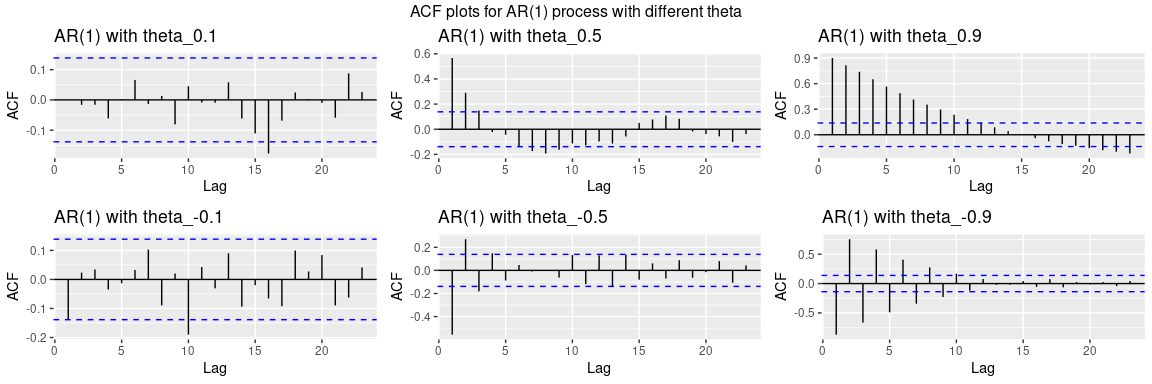
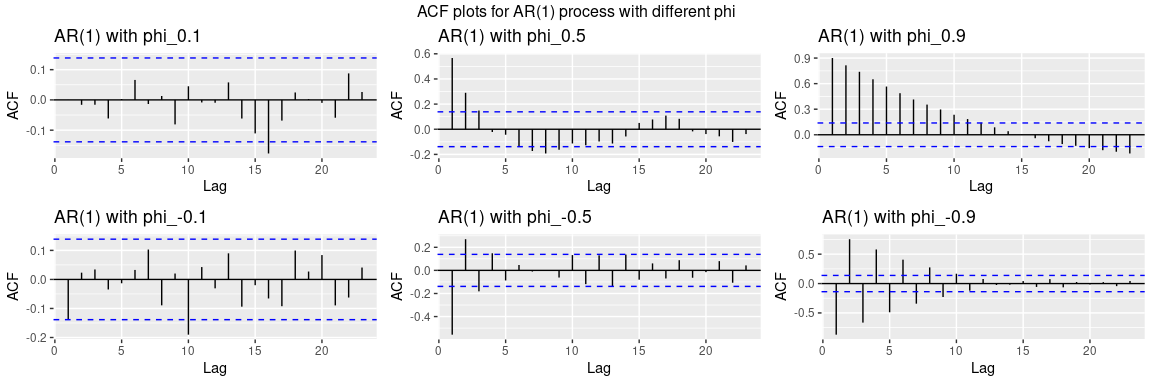
derivation of formulas for AR(1)

diff --git a/types_of_noise.md b/types_of_noise.md
@@ -68,22 +68,51 @@ var(white_noise2) # 1/3 is a theoretical value
 The Autoregressive process is given by the equation
 
   
-![X\_t = \\sum^p\_{i=1} \\theta\_i X\_{t-i} +
-w\_t.](https://latex.codecogs.com/png.image?%5Cdpi%7B110%7D&space;%5Cbg_white&space;X_t%20%3D%20%5Csum%5Ep_%7Bi%3D1%7D%20%5Ctheta_i%20X_%7Bt-i%7D%20%2B%20w_t.
-"X_t = \\sum^p_{i=1} \\theta_i X_{t-i} + w_t.")  
+![X\_t = \\sum^p\_{i=1} \\phi\_i X\_{t-i} +
+w\_t.](https://latex.codecogs.com/png.image?%5Cdpi%7B110%7D&space;%5Cbg_white&space;X_t%20%3D%20%5Csum%5Ep_%7Bi%3D1%7D%20%5Cphi_i%20X_%7Bt-i%7D%20%2B%20w_t.
+"X_t = \\sum^p_{i=1} \\phi_i X_{t-i} + w_t.")  
 
 ### AR(1)
 
 AR(1) process   
-![X\_t = \\theta X\_{t-1} +
-w\_t](https://latex.codecogs.com/png.image?%5Cdpi%7B110%7D&space;%5Cbg_white&space;X_t%20%3D%20%5Ctheta%20X_%7Bt-1%7D%20%2B%20w_t
-"X_t = \\theta X_{t-1} + w_t")  
+![X\_t = \\phi X\_{t-1} +
+w\_t](https://latex.codecogs.com/png.image?%5Cdpi%7B110%7D&space;%5Cbg_white&space;X_t%20%3D%20%5Cphi%20X_%7Bt-1%7D%20%2B%20w_t
+"X_t = \\phi X_{t-1} + w_t")  
 
-is stationary if ![|\\theta|
-\< 1](https://latex.codecogs.com/png.image?%5Cdpi%7B110%7D&space;%5Cbg_white&space;%7C%5Ctheta%7C%20%3C%201
-"|\\theta| \< 1"). In R we can simulate such process using `arima.sim`
+is stationary if ![|\\phi|
+\< 1](https://latex.codecogs.com/png.image?%5Cdpi%7B110%7D&space;%5Cbg_white&space;%7C%5Cphi%7C%20%3C%201
+"|\\phi| \< 1"). In R we can simulate such process using `arima.sim`
 function. Greater absolute value results in greater “amplitude” and
-negative theta causes oscilations from positive to negative.
+negative phi causes oscilations from positive to negative.
+
+See page 87 of
+<https://sistemas.fciencias.unam.mx/~ediaz/Cursos/Estadistica3/Libros/Time%20Series%20Analysis%20and%20Its%20Applications.pdf>.
+
+##### Proof of stationarity
+
+  
+![X\_t = \\phi X\_{t-1} +
+w\_t](https://latex.codecogs.com/png.image?%5Cdpi%7B110%7D&space;%5Cbg_white&space;X_t%20%3D%20%5Cphi%20X_%7Bt-1%7D%20%2B%20w_t
+"X_t = \\phi X_{t-1} + w_t")  
+  
+![ X\_t = \\phi (\\phi X\_{t-2} + w\_{t-1}) +
+w\_t](https://latex.codecogs.com/png.image?%5Cdpi%7B110%7D&space;%5Cbg_white&space;%20X_t%20%3D%20%5Cphi%20%28%5Cphi%20X_%7Bt-2%7D%20%2B%20w_%7Bt-1%7D%29%20%2B%20w_t
+" X_t = \\phi (\\phi X_{t-2} + w_{t-1}) + w_t")  
+
+  
+![ X\_t = \\phi (\\phi (\\phi X\_{t-3} + w\_{t-2}) + w\_{t-1}) +
+w\_t](https://latex.codecogs.com/png.image?%5Cdpi%7B110%7D&space;%5Cbg_white&space;%20X_t%20%3D%20%5Cphi%20%28%5Cphi%20%28%5Cphi%20X_%7Bt-3%7D%20%2B%20w_%7Bt-2%7D%29%20%2B%20w_%7Bt-1%7D%29%20%2B%20w_t
+" X_t = \\phi (\\phi (\\phi X_{t-3} + w_{t-2}) + w_{t-1}) + w_t")  
+
+  
+![X\_t = \\phi^3 X\_{t-3} + \\phi^2 w\_{t-2} + \\phi w\_{t-1} +
+w\_t](https://latex.codecogs.com/png.image?%5Cdpi%7B110%7D&space;%5Cbg_white&space;X_t%20%3D%20%5Cphi%5E3%20X_%7Bt-3%7D%20%2B%20%5Cphi%5E2%20w_%7Bt-2%7D%20%2B%20%5Cphi%20w_%7Bt-1%7D%20%2B%20w_t
+"X_t = \\phi^3 X_{t-3} + \\phi^2 w_{t-2} + \\phi w_{t-1} + w_t")  
+
+  
+![X\_t = \\phi^k X\_{t-k} + \\sum^k\_{i=0} \\phi^i
+w\_{t-i}.](https://latex.codecogs.com/png.image?%5Cdpi%7B110%7D&space;%5Cbg_white&space;X_t%20%3D%20%5Cphi%5Ek%20X_%7Bt-k%7D%20%2B%20%5Csum%5Ek_%7Bi%3D0%7D%20%5Cphi%5Ei%20w_%7Bt-i%7D.
+"X_t = \\phi^k X_{t-k} + \\sum^k_{i=0} \\phi^i w_{t-i}.")  
 
 ``` r
 N <- 200
@@ -101,12 +130,12 @@ ar1_processes[7,] <- arima.sim(model = list(ar = c(-0.9)), n = N)
 
 ar1_processes <- as.data.frame(t(ar1_processes)) 
 colnames(ar1_processes) <- c(
-  "time", "theta_0.1", "theta_0.5", "theta_0.9", "theta_-0.1", "theta_-0.5", "theta_-0.9")
+  "time", "phi_0.1", "phi_0.5", "phi_0.9", "phi_-0.1", "phi_-0.5", "phi_-0.9")
 
 ar1_processes %>% pivot_longer(cols = 2:7) %>% 
   ggplot(aes(x = time, y = value, col = name)) +
   geom_line() + 
-  ggtitle("AR(1) processes with different coefficient (only stationary, i.e. |theta| < 1 allowed by arima.sim)") +
+  ggtitle("AR(1) processes with different coefficient (only stationary, i.e. |phi| < 1 allowed by arima.sim)") +
   theme(legend.position = "bottom")
 ```
 
@@ -120,7 +149,7 @@ for (name in colnames(ar1_processes)[-1]){
 }
 
 gridExtra::grid.arrange(
-  grobs = ar1_acfs, nrow = 2, top = "ACF plots for AR(1) process with different theta")
+  grobs = ar1_acfs, nrow = 2, top = "ACF plots for AR(1) process with different phi")
 ```
 
 ![](types_of_noise_files/figure-gfm/unnamed-chunk-7-1.png)<!-- -->
@@ -133,7 +162,42 @@ for (name in colnames(ar1_processes)[-1]){
 }
 
 gridExtra::grid.arrange(
-  grobs = ar1_pacfs, nrow = 2, top = "PACF plots for AR(1) process with different theta")
+  grobs = ar1_pacfs, nrow = 2, top = "PACF plots for AR(1) process with different phi")
 ```
 
 ![](types_of_noise_files/figure-gfm/unnamed-chunk-8-1.png)<!-- -->
+
+#### Stationary AR(1)
+
+#### Random walk
+
+AR(1) process with an unit root ![\\phi
+= 1](https://latex.codecogs.com/png.image?%5Cdpi%7B110%7D&space;%5Cbg_white&space;%5Cphi%20%3D%201
+"\\phi = 1") is called a random walk. It’s expected value is ![E(X\_t) =
+t\\mu](https://latex.codecogs.com/png.image?%5Cdpi%7B110%7D&space;%5Cbg_white&space;E%28X_t%29%20%3D%20t%5Cmu
+"E(X_t) = t\\mu"), where ![w\_t \\sim N(\\mu,
+\\sigma^2)](https://latex.codecogs.com/png.image?%5Cdpi%7B110%7D&space;%5Cbg_white&space;w_t%20%5Csim%20N%28%5Cmu%2C%20%5Csigma%5E2%29
+"w_t \\sim N(\\mu, \\sigma^2)") and it’s variance is ![Var(X\_t) =
+\\sum^t\_{i=1} Var(w\_t) =
+t\\sigma^2](https://latex.codecogs.com/png.image?%5Cdpi%7B110%7D&space;%5Cbg_white&space;Var%28X_t%29%20%3D%20%5Csum%5Et_%7Bi%3D1%7D%20Var%28w_t%29%20%3D%20t%5Csigma%5E2
+"Var(X_t) = \\sum^t_{i=1} Var(w_t) = t\\sigma^2"), therefore it is not
+stationary.
+
+``` r
+# generate_AR <- function(AR_coefs, sigma, n){
+#   p <- length(AR_coefs)
+#   Y <- rnorm(p, sd = sigma)
+#   for (i in 1:(n-p)){
+#     Y_i <- AR_coefs %*% Y + epsilon_i
+#     Y <- c(Y, Y_i)
+#   }
+#   return(Y)
+# }
+# 
+# # AR(1)
+# X <- generate_AR(
+#   AR_coefs = c(0.5),
+#   sigma = 1,
+#   n = 200
+# )
+```
